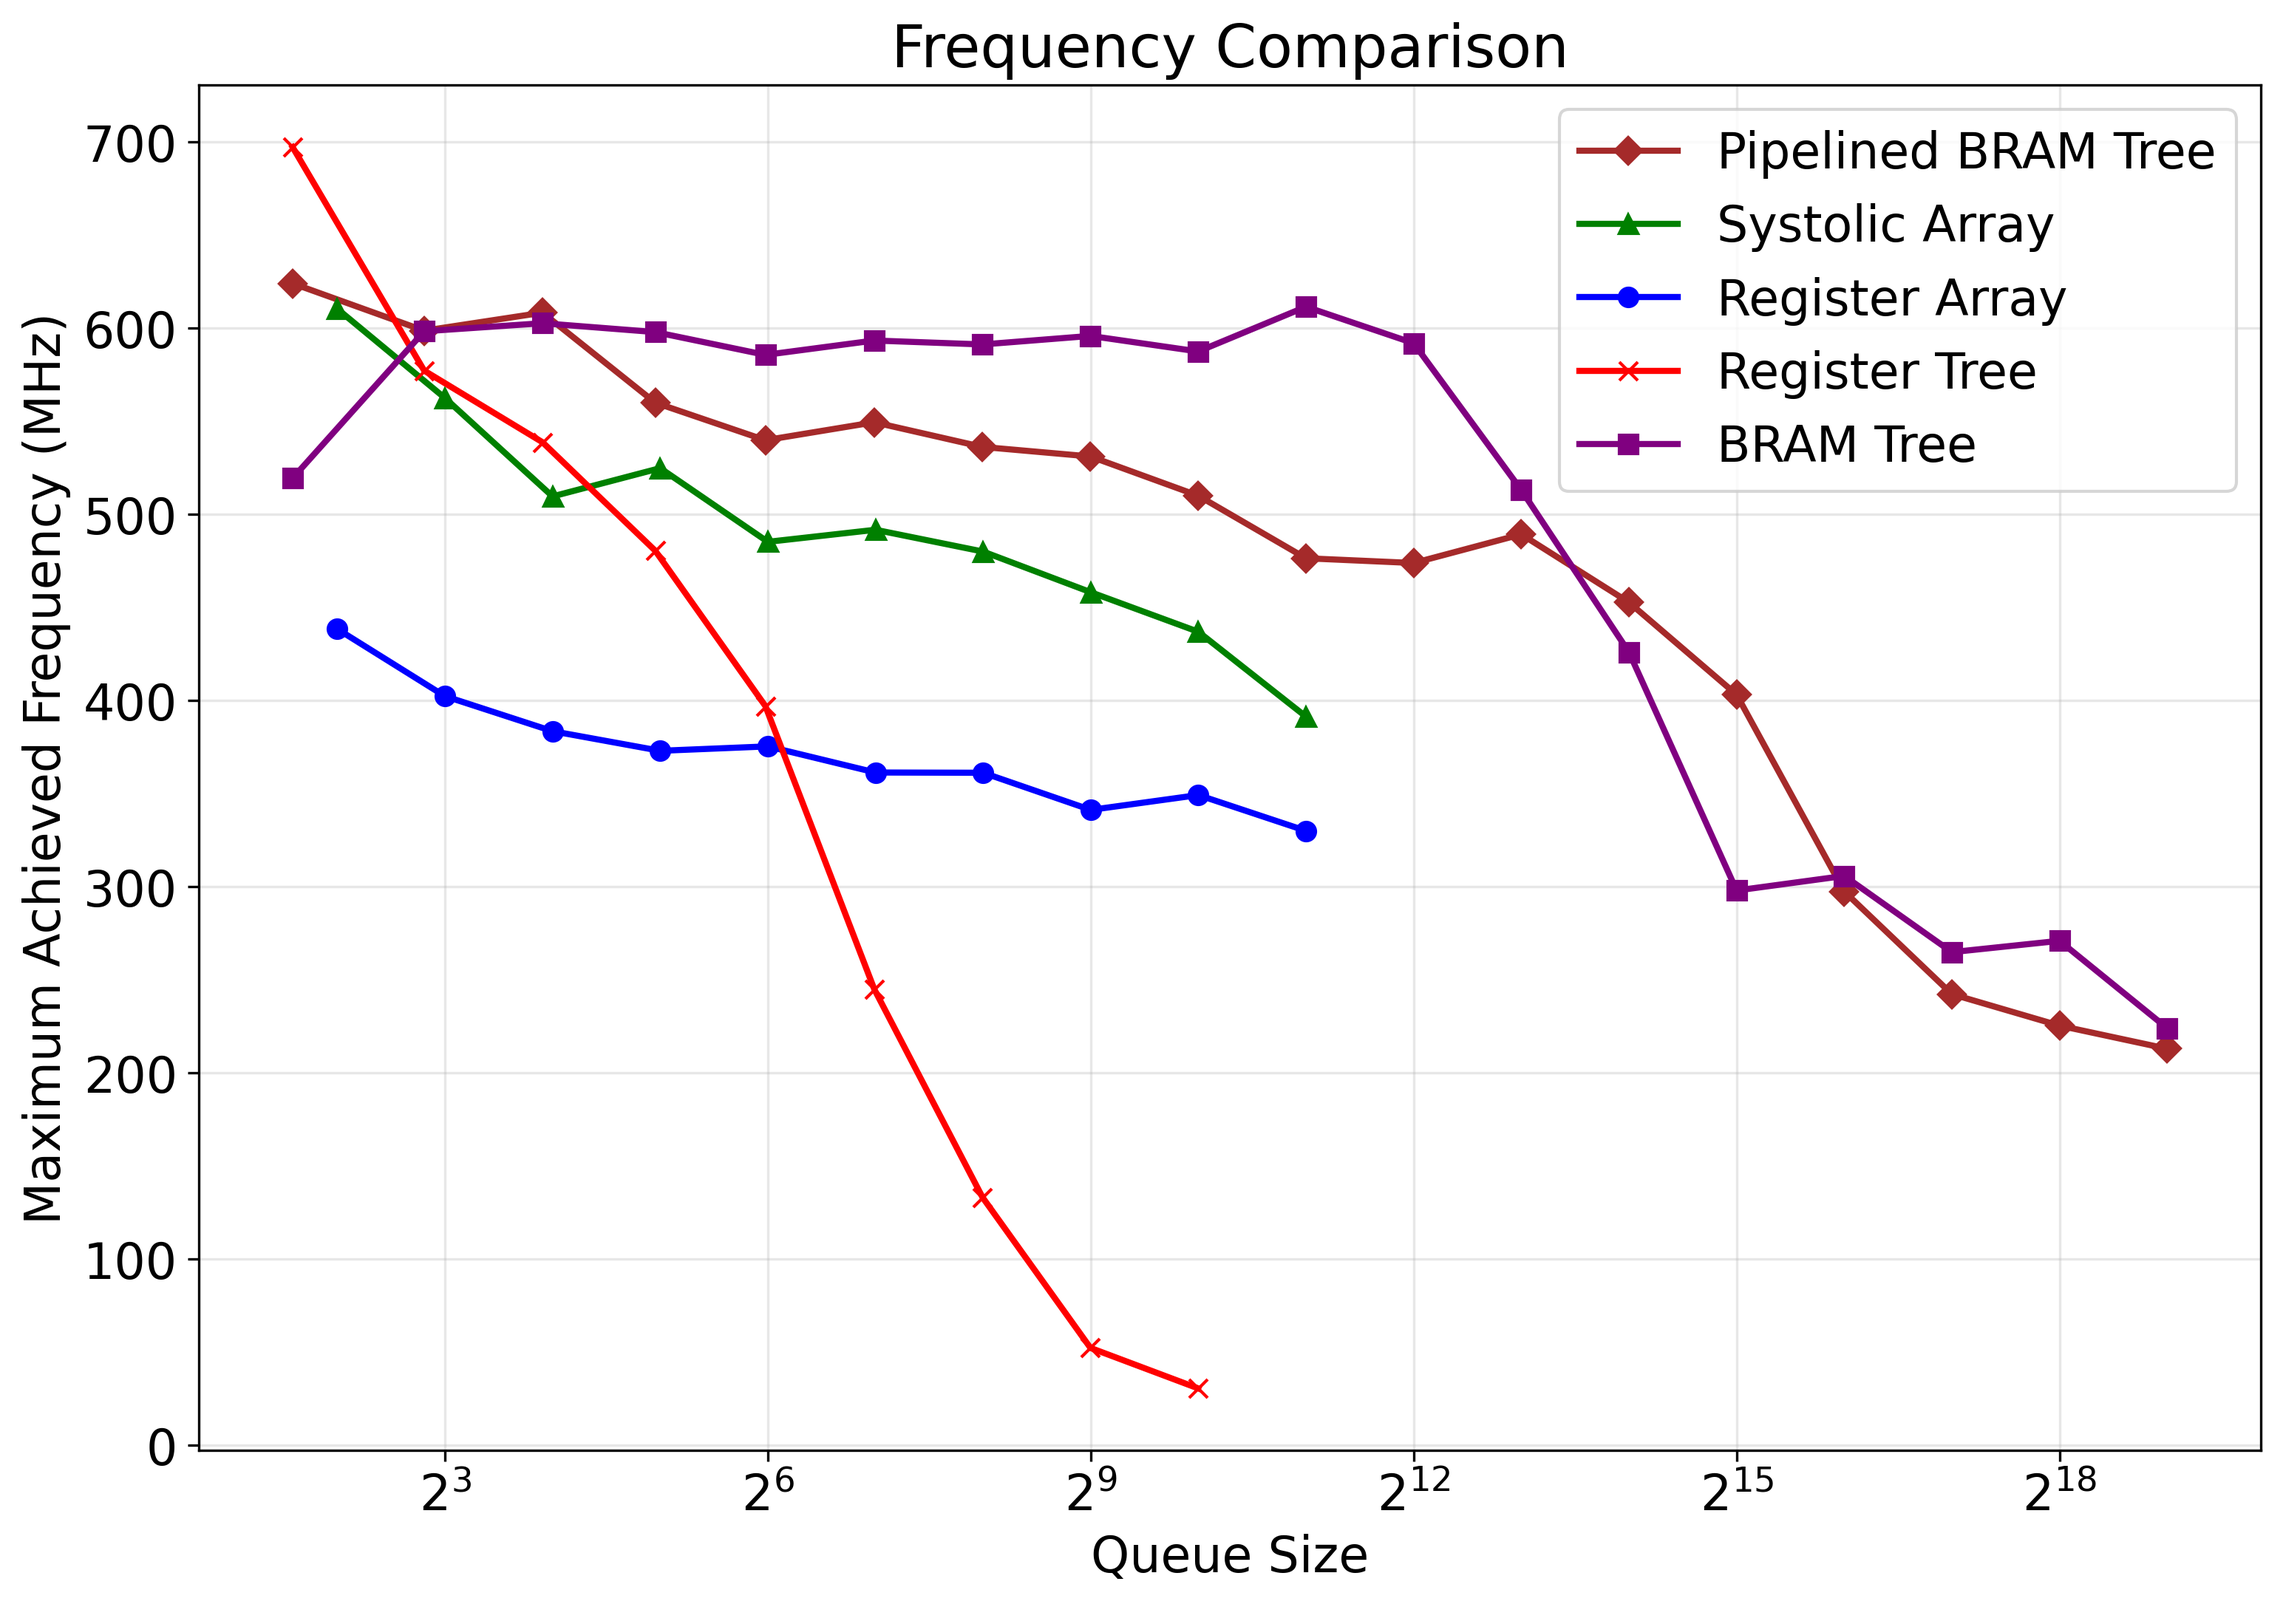
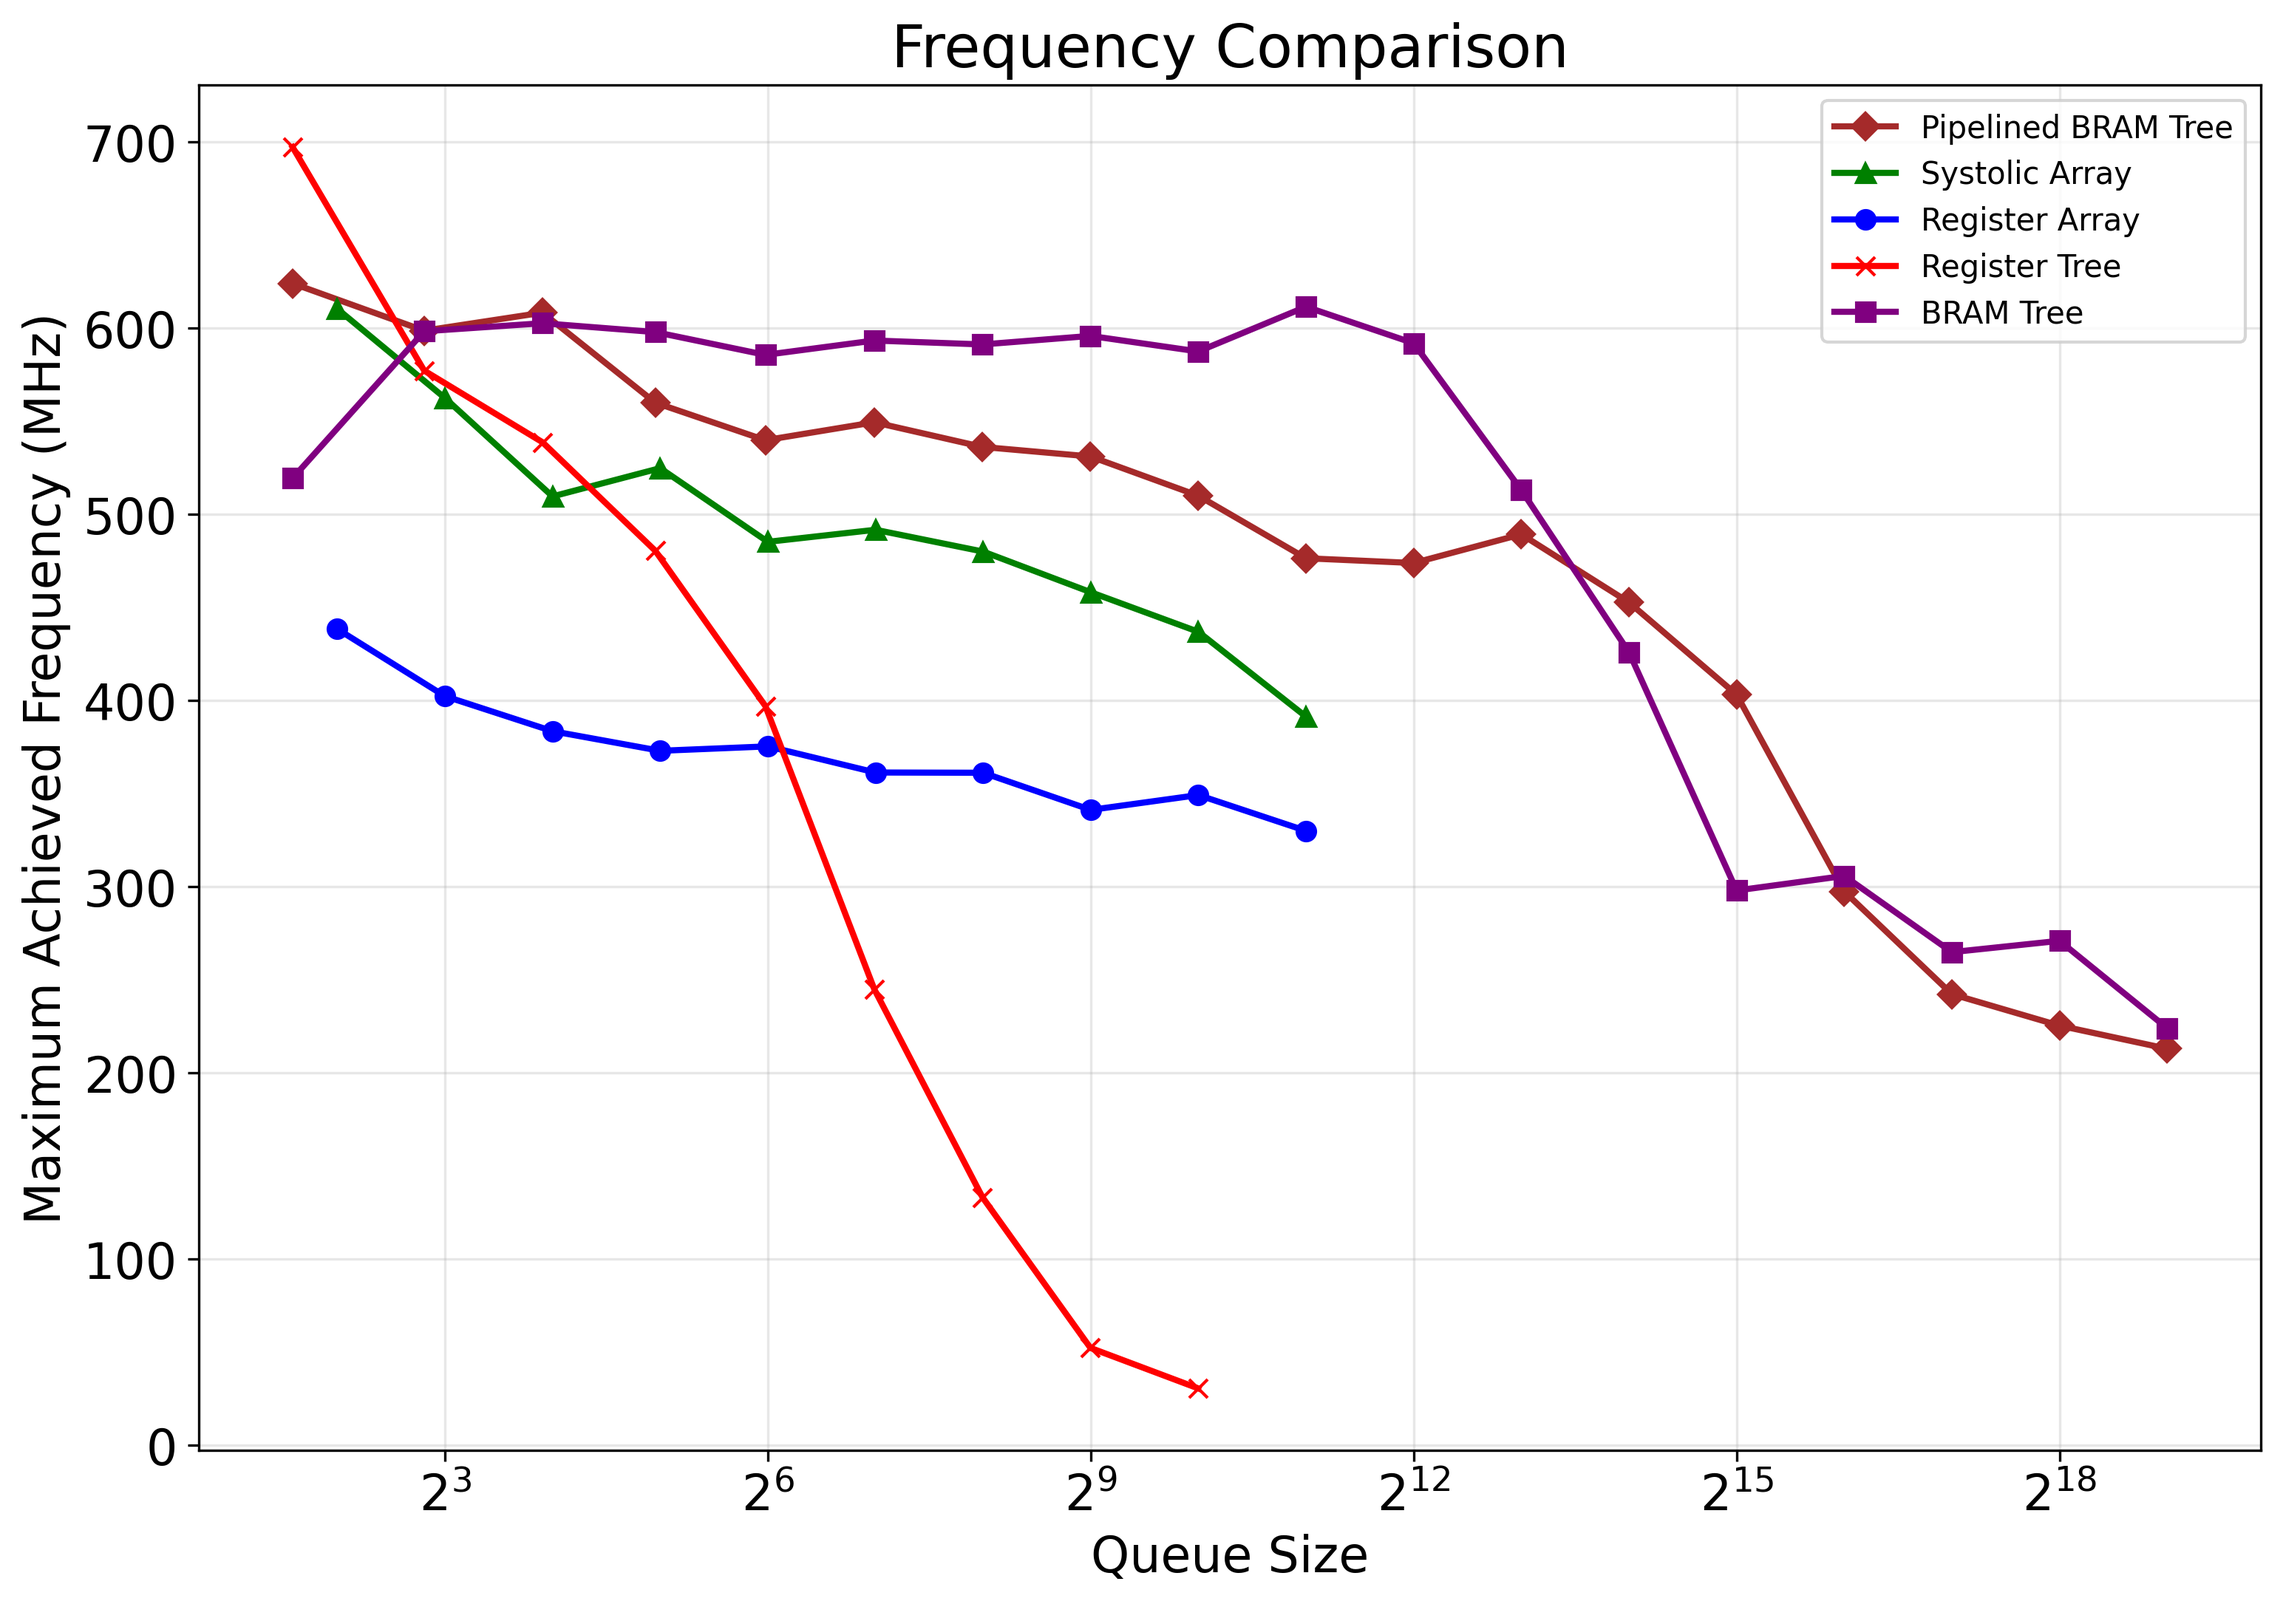
update analysis plots

Changed region(s): [[0.6837, 0.0617, 0.9945, 0.3086], [0.9634, 0.1852, 0.9945, 0.216]]

diff --git a/analysis_scripts/plotter.py b/analysis_scripts/plotter.py
@@ -89,7 +89,7 @@ def plot_frequency_vs_queue_size(ax, data_dict, title=None, arch_name=None):
     
     # Add legend if plotting multiple architectures
     if arch_name:
-        ax.legend()
+        ax.legend(fontsize=10)
 
 
 def plot_lut_usage_vs_queue_size(ax, data_dict, title=None, arch_name=None):
@@ -118,7 +118,7 @@ def plot_lut_usage_vs_queue_size(ax, data_dict, title=None, arch_name=None):
     
     # Add legend if plotting multiple architectures
     if arch_name:
-        ax.legend()
+        ax.legend(fontsize=10)
 
 
 def plot_lut_utilization_vs_queue_size(ax, data_dict, title=None, arch_name=None):
@@ -147,7 +147,7 @@ def plot_lut_utilization_vs_queue_size(ax, data_dict, title=None, arch_name=None
     
     # Add legend if plotting multiple architectures
     if arch_name:
-        ax.legend()
+        ax.legend(fontsize=10)
 
 
 def plot_register_usage_vs_queue_size(ax, data_dict, title=None, arch_name=None):
@@ -176,7 +176,7 @@ def plot_register_usage_vs_queue_size(ax, data_dict, title=None, arch_name=None)
     
     # Add legend if plotting multiple architectures
     if arch_name:
-        ax.legend()
+        ax.legend(fontsize=10)
 
 
 def plot_register_utilization_vs_queue_size(ax, data_dict, title=None, arch_name=None):
@@ -205,7 +205,7 @@ def plot_register_utilization_vs_queue_size(ax, data_dict, title=None, arch_name
     
     # Add legend if plotting multiple architectures
     if arch_name:
-        ax.legend()
+        ax.legend(fontsize=10)
 
 
 def plot_bram_usage_vs_queue_size(ax, data_dict, title=None, arch_name=None):
@@ -234,7 +234,7 @@ def plot_bram_usage_vs_queue_size(ax, data_dict, title=None, arch_name=None):
     
     # Add legend if plotting multiple architectures
     if arch_name:
-        ax.legend()
+        ax.legend(fontsize=10)
 
 
 def plot_bram_utilization_vs_queue_size(ax, data_dict, title=None, arch_name=None):
@@ -263,7 +263,7 @@ def plot_bram_utilization_vs_queue_size(ax, data_dict, title=None, arch_name=Non
     
     # Add legend if plotting multiple architectures
     if arch_name:
-        ax.legend()
+        ax.legend(fontsize=10)
 
 
 def plot_performance_comparison(ax, data_dict, arch_list, operation, title=None):
@@ -288,10 +288,10 @@ def plot_performance_comparison(ax, data_dict, arch_list, operation, title=None)
     
     ax.set_xlabel('Queue Size')
     ax.set_ylabel('Performance (MHz * ops/cycle)')
-    ax.set_title(title or f"{operation.capitalize()} Performance Comparison")
+    ax.set_title(title or f"{operation.capitalize()} Performance")
     ax.set_xscale('log', base=2)
     ax.grid(True)
-    ax.legend()
+    ax.legend(fontsize=10)
     
     # Add "Better" annotation with arrow pointing up (higher is better)
     ax.annotate('Better', xy=(0.9, 0.9), xycoords='axes fraction',
@@ -319,24 +319,17 @@ def plot_efficiency_comparison(ax, data_dict, arch_list, operation, title=None):
             
             queue_sizes, efficiency = dp.compute_resource_utilization_efficiency(
                 data_dict[arch_name], arch_name, operation)
-            
-            # Convert to more reasonable units if values are very large
-            if max(efficiency) > 10000:
-                efficiency = [e/1000 for e in efficiency]
-                unit = "K"
-            else:
-                unit = ""
                 
             ax.plot(queue_sizes, efficiency, f"{style['marker']}-", color=style['color'], 
                    label=style['display_name'], linewidth=2)
     
     ax.set_xlabel('Queue Size')
-    ax.set_ylabel(f'Resource Cost / Performance ({unit}area/MHz)')
-    ax.set_title(title or f"{operation.capitalize()} Resource Efficiency Comparison")
+    ax.set_ylabel(f'Resource Cost / Performance')
+    ax.set_title(title or f"{operation.capitalize()} Resource Efficiency")
     ax.set_xscale('log', base=2)
     ax.set_yscale('log')
     ax.grid(True)
-    ax.legend()
+    ax.legend(fontsize=10)
     
     # Add "Better" annotation with arrow pointing down (lower is better)
     ax.annotate('Better', xy=(0.9, 0.1), xycoords='axes fraction',
@@ -359,7 +352,7 @@ def create_summary_plots(data_dict, architecture, output_path=None):
     """
     # Create a 3x3 grid of subplots
     fig, axs = plt.subplots(3, 3, figsize=(18, 16))
-    fig.suptitle(f"Performance Analysis for {architecture} Architecture", fontsize=24)
+    fig.suptitle(f"Performance Analysis for {architecture} Architecture", fontsize=32)
     
     # Convert display name to architecture key for style lookup
     arch_key = architecture.lower().replace(" ", "_").split("(")[0].strip()
@@ -409,8 +402,8 @@ def create_comparison_plots(data_dict_dict, output_path=None):
     arch_list = list(data_dict_dict.keys())
     
     # Create a 3x3 grid for comparison plots
-    fig, axs = plt.subplots(4, 3, figsize=(18, 16))  # Increased height for additional row
-    fig.suptitle("Hardware Queue Architecture Comparison", fontsize=24)
+    fig, axs = plt.subplots(3, 4, figsize=(32, 20))  # Increased height for additional row
+    fig.suptitle("Hardware Queue Architecture Comparison", fontsize=32)
     
     # Row 1: Basic hardware metrics
     # Plot 1: Maximum achieved frequency comparison
@@ -424,7 +417,7 @@ def create_comparison_plots(data_dict_dict, output_path=None):
     axs[0, 0].set_title('Maximum Achieved Frequency')
     axs[0, 0].set_xscale('log', base=2)
     axs[0, 0].grid(True)
-    axs[0, 0].legend()
+    axs[0, 0].legend(fontsize=10)
     
     # Plot 2: LUT utilization comparison
     for arch_name, data_dict in data_dict_dict.items():
@@ -437,7 +430,7 @@ def create_comparison_plots(data_dict_dict, output_path=None):
     axs[0, 1].set_title('LUT Utilization Comparison')
     axs[0, 1].set_xscale('log', base=2)
     axs[0, 1].grid(True)
-    axs[0, 1].legend()
+    axs[0, 1].legend(fontsize=10)
     
     # Plot 3: Register utilization comparison
     for arch_name, data_dict in data_dict_dict.items():
@@ -450,22 +443,22 @@ def create_comparison_plots(data_dict_dict, output_path=None):
     axs[0, 2].set_title('Register Utilization Comparison')
     axs[0, 2].set_xscale('log', base=2)
     axs[0, 2].grid(True)
-    axs[0, 2].legend()
+    axs[0, 2].legend(fontsize=10)
     
     # Plot 4: BRAM utilization comparison
     for arch_name, data_dict in data_dict_dict.items():
         style = get_arch_style(arch_name)
         queue_sizes, bram_percentages = dp.get_bram_utilization(data_dict)
         if any(bram_percentages):  # Only plot if there's actual BRAM usage
-            axs[1, 0].plot(queue_sizes, bram_percentages, f"{style['marker']}-", color=style['color'],
+            axs[0, 3].plot(queue_sizes, bram_percentages, f"{style['marker']}-", color=style['color'],
                           label=style['display_name'], linewidth=2)
-    axs[1, 0].set_xlabel('Queue Size')
-    axs[1, 0].set_ylabel('BRAM Utilization (%)')
-    axs[1, 0].set_title('BRAM Utilization Comparison')
-    axs[1, 0].set_xscale('log', base=2)
-    axs[1, 0].set_yscale('log')
-    axs[1, 0].grid(True)
-    axs[1, 0].legend()
+    axs[0, 3].set_xlabel('Queue Size')
+    axs[0, 3].set_ylabel('BRAM Utilization (%)')
+    axs[0, 3].set_title('BRAM Utilization Comparison')
+    axs[0, 3].set_xscale('log', base=2)
+    axs[0, 3].set_yscale('log')
+    axs[0, 3].grid(True)
+    axs[0, 3].legend(fontsize=10)
     
     # Row 2 and 3: Performance and efficiency comparisons
     operations = ["enqueue", "dequeue", "replace"]
@@ -476,15 +469,14 @@ def create_comparison_plots(data_dict_dict, output_path=None):
     enqueue_data_dict = {arch: data for arch, data in data_dict_dict.items() if "bram_tree" not in arch.lower()}
     
     # Use filtered lists for enqueue operations
-    plot_performance_comparison(axs[1, 1], enqueue_data_dict, enqueue_arch_list, operations[0])  # Enqueue performance
-    plot_performance_comparison(axs[1, 2], data_dict_dict, arch_list, operations[1])  # Dequeue performance
-    plot_performance_comparison(axs[2, 0], data_dict_dict, arch_list, operations[2])  # Replace performance
+    plot_performance_comparison(axs[1, 0], enqueue_data_dict, enqueue_arch_list, operations[0])  # Enqueue performance
+    plot_performance_comparison(axs[1, 1], data_dict_dict, arch_list, operations[1])  # Dequeue performance
+    plot_performance_comparison(axs[1, 2], data_dict_dict, arch_list, operations[2])  # Replace performance
     
     # Resource efficiency comparisons for different operations
-    plot_efficiency_comparison(axs[2, 1], enqueue_data_dict, enqueue_arch_list, operations[0])  # Enqueue efficiency
-    plot_efficiency_comparison(axs[2, 2], data_dict_dict, arch_list, operations[1])  # Dequeue efficiency
-    plot_efficiency_comparison(axs[3, 0], data_dict_dict, arch_list, operations[2])  # Replace efficiency
-    
+    plot_efficiency_comparison(axs[2, 0], enqueue_data_dict, enqueue_arch_list, operations[0])  # Enqueue efficiency
+    plot_efficiency_comparison(axs[2, 1], data_dict_dict, arch_list, operations[1])  # Dequeue efficiency
+    plot_efficiency_comparison(axs[2, 2], data_dict_dict, arch_list, operations[2])  # Replace efficiency
     
     # Adjust layout
     plt.tight_layout(rect=[0, 0, 1, 0.97])  # Leave space for suptitle

diff --git a/analysis_scripts/data_processor.py b/analysis_scripts/data_processor.py
@@ -267,26 +267,11 @@ def compute_resource_utilization_efficiency(data_dict, arch, operation):
     for queue_size, metrics in data_dict.items():
         if "max_achieved_frequency" in metrics:
             max_freq = metrics["max_achieved_frequency"]
+            lut_utilization = metrics["luts_util_percent"]
+            reg_utilization = metrics["registers_util_percent"]
+            bram_utilization = metrics["bram_util_percent"]
             
-            # # Determine which area metric to use based on architecture
-            # if arch in ["bram_tree", "hybrid_tree_simple"]:
-            #     # For BRAM-based architectures, use BRAM utilization
-            #     if "bram_used" in metrics:
-            #         area = metrics["bram_used"]
-            #     else:
-            #         continue  # Skip if no area info
-            # else:
-            #     # For other architectures, use LUT count
-            #     if "luts_used" in metrics:
-            #         area = metrics["luts_used"]
-            #     else:
-            #         continue  # Skip if no area info
-            
-            lut_used = metrics.get("luts_used", 0)
-            reg_used = metrics.get("registers_used", 0)
-            bram_used = metrics.get("bram_used", 0)
-            
-            area = lut_used*6 + reg_used*4 + bram_used*1200000
+            resource = np.max([lut_utilization, reg_utilization, bram_utilization])
             
             # Calculate performance factor based on architecture and operation
             if arch == "register_tree" and operation == "enqueue":
@@ -299,9 +284,9 @@ def compute_resource_utilization_efficiency(data_dict, arch, operation):
             # Calculate performance
             performance = max_freq * perf_factor
             
-            # Calculate area efficiency (area/performance)
-            # Lower is better: less area for same performance
-            efficiency = area / performance if performance > 0 else float('inf')
+            # Calculate resource utilization efficiency (resource/performance)
+            # Lower is better: less resource used for same performance
+            efficiency = resource / performance if performance > 0 else float('inf')
             
             # Add to our lists
             queue_sizes.append(queue_size)
